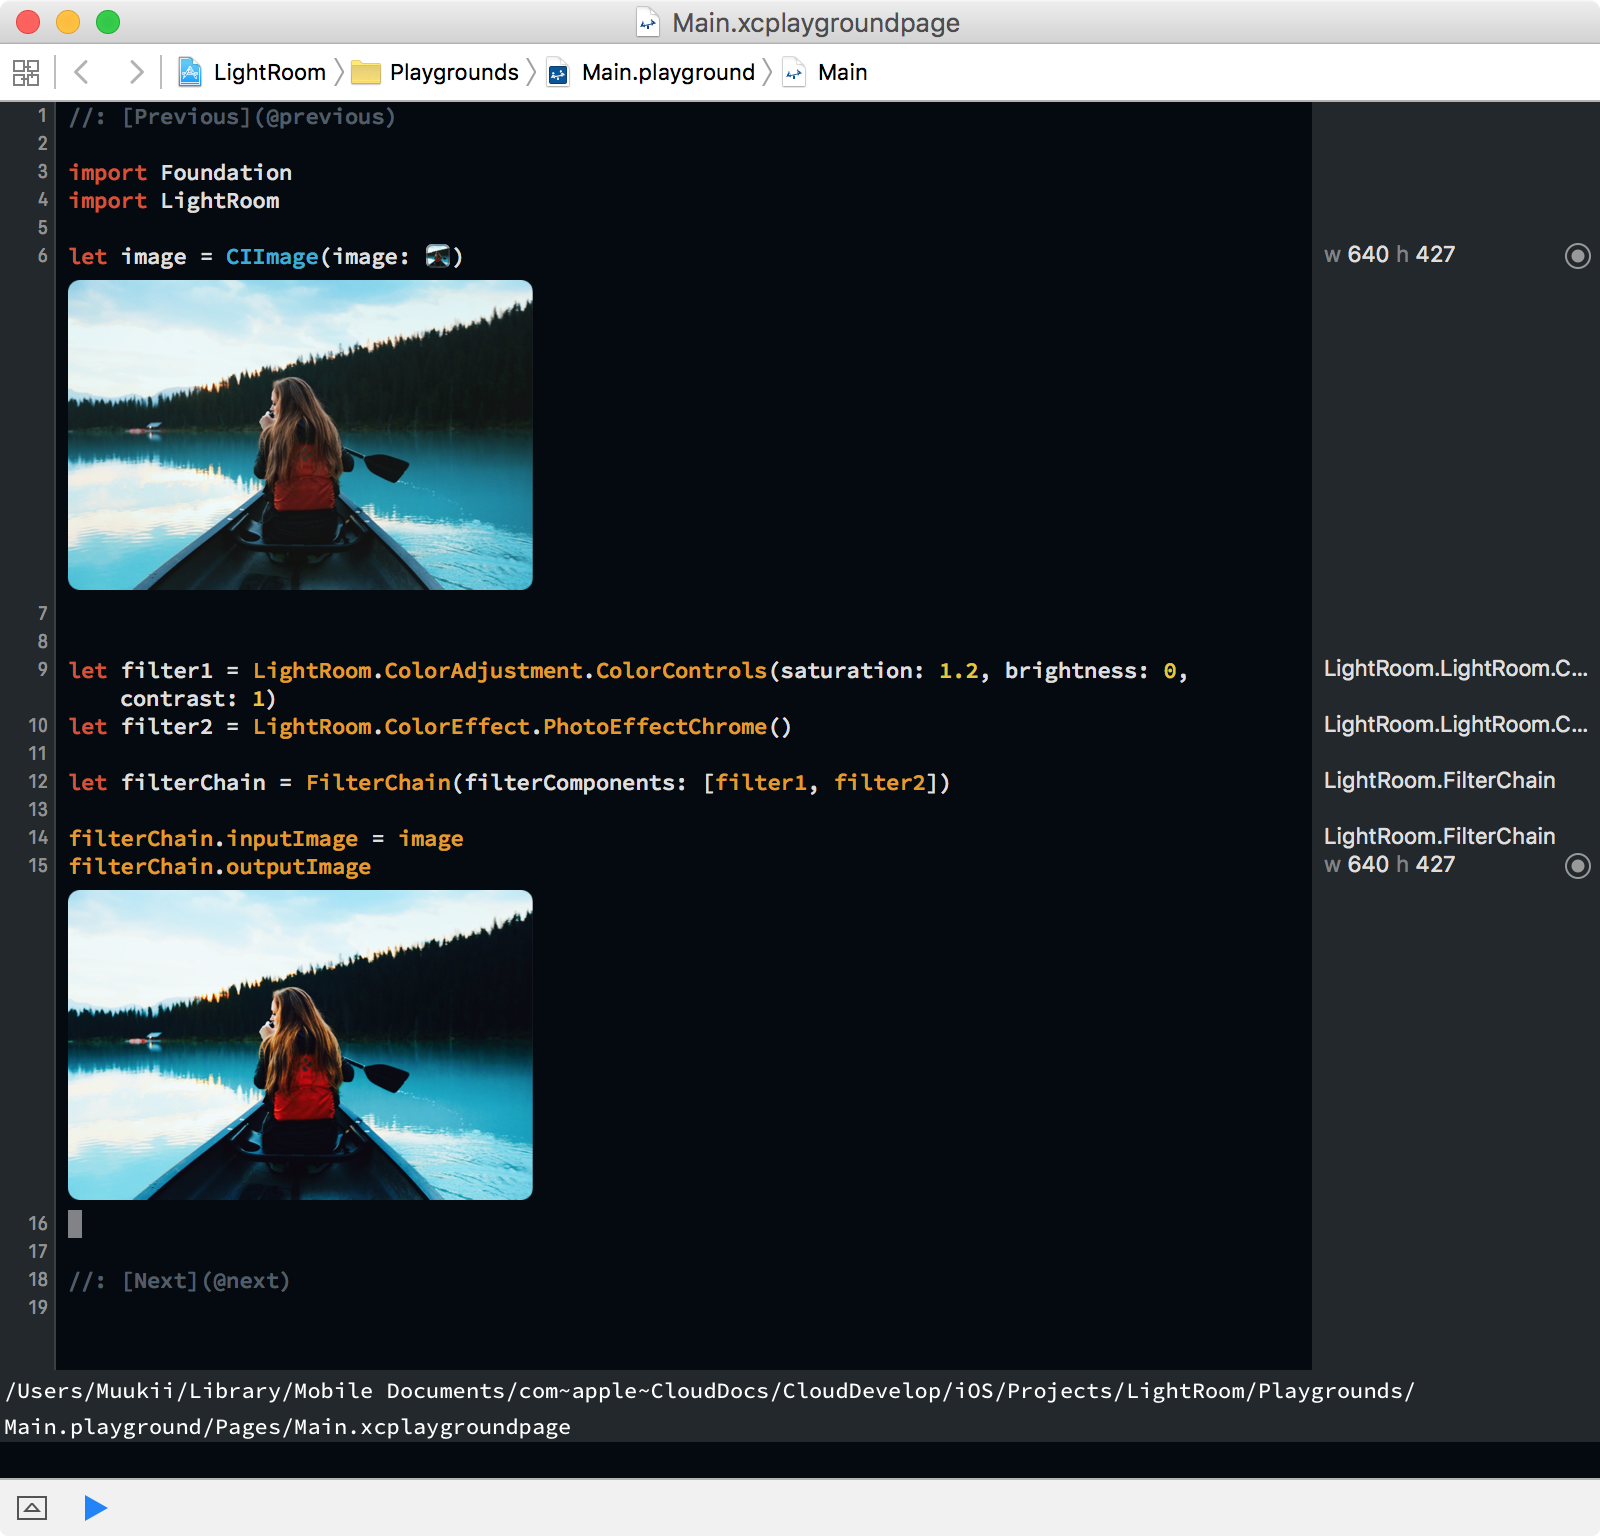
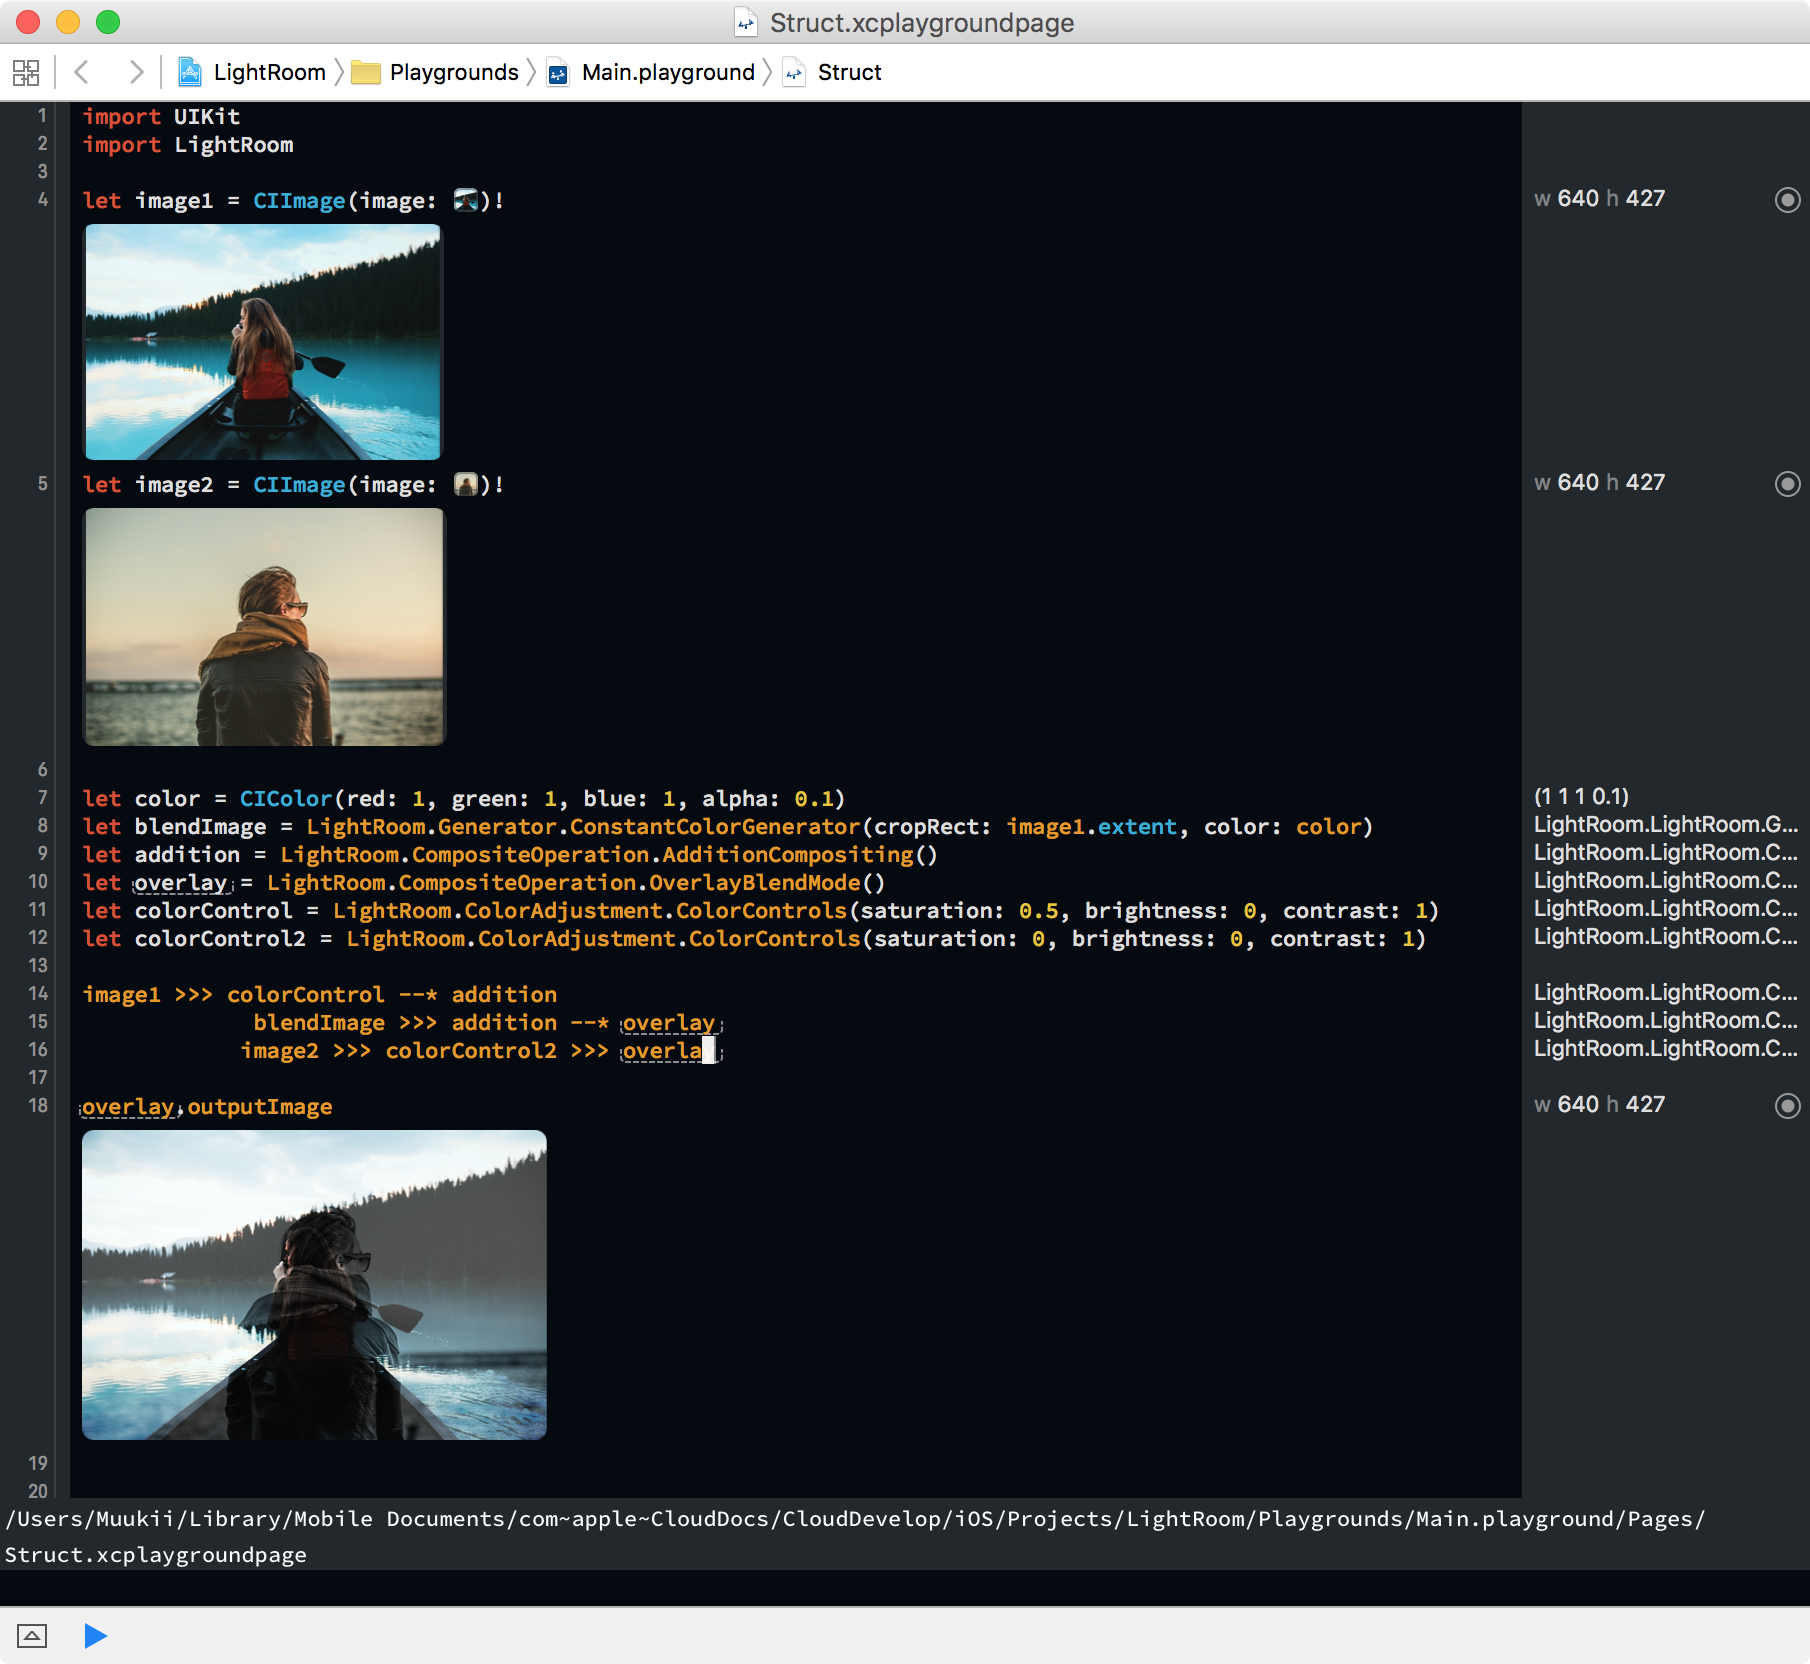
wip :D

diff --git a/Playgrounds/Main.playground/Pages/Struct.xcplaygroundpage/Contents.swift b/Playgrounds/Main.playground/Pages/Struct.xcplaygroundpage/Contents.swift
@@ -1,34 +1,19 @@
-//: [Previous](@previous)
-
-import Foundation
 import UIKit
-import CoreImage
 import LightRoom
 
-let image = CIImage(image: [#Image(imageLiteral: "sample.jpg")#])!
-let alpha: CGFloat = 0.1
+let image1 = CIImage(image: [#Image(imageLiteral: "sample.jpg")#])!
+let image2 = CIImage(image: [#Image(imageLiteral: "sample3.jpg")#])!
 
-let color = CIColor(red: 1, green: 1, blue: 1, alpha: alpha)
+let color = CIColor(red: 1, green: 1, blue: 1, alpha: 0.1)
+let blendImage = LightRoom.Generator.ConstantColorGenerator(cropRect: image1.extent, color: color)
+let addition = LightRoom.CompositeOperation.AdditionCompositing()
+let overlay = LightRoom.CompositeOperation.OverlayBlendMode()
+let colorControl = LightRoom.ColorAdjustment.ColorControls(saturation: 0.5, brightness: 0, contrast: 1)
+let colorControl2 = LightRoom.ColorAdjustment.ColorControls(saturation: 0, brightness: 0, contrast: 1)
 
-let fadeImage = LightRoom.Generator.ConstantColorGenerator(cropRect: image.extent, color: color)
-let sourceOver = LightRoom.CompositeOperation.SourceOverCompositing()
-let control = LightRoom.ColorAdjustment.ColorControls(saturation: 0.5, brightness: 0, contrast: 1)
+image1 >>> colorControl --* addition
+             blendImage >>> addition --* overlay
+            image2 >>> colorControl2 >>> overlay
 
-let chain1 = FilterChain { (image) -> CIImage? in
-    fadeImage.cropRect = image?.extent ?? .zero
-    image >>> control --* sourceOver
-    fadeImage >>> sourceOver
-    return sourceOver.outputImage
-}
+overlay.outputImage
 
-image --> chain1
-chain1.outputImage
-
-do {
-    let image2 = CIImage(image: [#Image(imageLiteral: "sample2.jpg")#])!
-    
-    image2 --> chain1
-    chain1.outputImage
-}
-
-//: [Next](@next)

diff --git a/Playgrounds/Main.playground/Pages/MultiChain.xcplaygroundpage/Contents.swift b/Playgrounds/Main.playground/Pages/MultiChain.xcplaygroundpage/Contents.swift
@@ -1,22 +1,21 @@
-//: [Previous](@previous)
-
-import Foundation
+import UIKit
 import LightRoom
 
-let image = CIImage(image: [#Image(imageLiteral: "sample.jpg")#])
+let image1 = CIImage(image: [#Image(imageLiteral: "sample.jpg")#])!
+let image2 = CIImage(image: [#Image(imageLiteral: "sample3.jpg")#])!
 
-let filter1 = LightRoom.ColorAdjustment.ColorControls(saturation: 1.2, brightness: 0, contrast: 1)
-let filter2 = LightRoom.ColorEffect.PhotoEffectChrome()
-let filterChain1 = FilterChain(filterComponents: [filter1, filter2])
+let colorControl = LightRoom.ColorAdjustment.ExposureAdjust(ev: 1)
 
-let filter3 = LightRoom.ColorAdjustment.ColorControls(saturation: 1, brightness: -0.2, contrast: 1)
-let filter4 = LightRoom.ColorEffect.PhotoEffectProcess()
-let filterChain2 = FilterChain(filterComponents: [filter3, filter4])
+let chain1 = FilterChain { (image: CIImage?) -> CIImage? in
+    image >>> colorControl
+    return colorControl.outputImage
+}
 
-let filterChain = filterChain1 ~~> filterChain2
-filterChain.inputImage = image
-filterChain.outputImage
+let colorControl2 = LightRoom.ColorAdjustment.ColorControls(saturation: 0.3, brightness: 0, contrast: 1)
+let chain2 = FilterChain { (image: CIImage?) -> CIImage? in
+    image >>> colorControl2
+    return colorControl2.outputImage
+}
 
-//: [Next](@next)
-
-
+image1 >>> chain1 >>> chain2
+chain2.outputImage

diff --git a/Playgrounds/Main.playground/Pages/OneChain.xcplaygroundpage/Contents.swift b/Playgrounds/Main.playground/Pages/OneChain.xcplaygroundpage/Contents.swift
@@ -1,18 +1,20 @@
-//: [Previous](@previous)
-
-import Foundation
+import UIKit
 import LightRoom
 
-let image = CIImage(image: [#Image(imageLiteral: "sample.jpg")#])
+let image1 = CIImage(image: [#Image(imageLiteral: "sample.jpg")#])!
+let image2 = CIImage(image: [#Image(imageLiteral: "sample3.jpg")#])!
+
+let color = CIColor(red: 1, green: 1, blue: 1, alpha: 0.1)
+let blendImage = LightRoom.Generator.ConstantColorGenerator(cropRect: image1.extent, color: color)
+let addition = LightRoom.CompositeOperation.AdditionCompositing()
+let overlay = LightRoom.CompositeOperation.OverlayBlendMode()
+let colorControl = LightRoom.ColorAdjustment.ColorControls(saturation: 0.5, brightness: 0, contrast: 1)
+let colorControl2 = LightRoom.ColorAdjustment.ColorControls(saturation: 0, brightness: 0, contrast: 1)
+
+image1 >>> colorControl --* addition
+             blendImage >>> addition --* overlay
+            image2 >>> colorControl2 >>> overlay
+
+overlay.outputImage
 
 
-let filter1 = LightRoom.ColorAdjustment.ColorControls(saturation: 1.2, brightness: 0, contrast: 1)
-let filter2 = LightRoom.ColorEffect.PhotoEffectChrome()
-
-let filterChain = FilterChain(filterComponents: [filter1, filter2])
-
-filterChain.inputImage = image
-filterChain.outputImage
-
-
-//: [Next](@next)

diff --git a/LightRoom/Classes/FilterChain.swift b/LightRoom/Classes/FilterChain.swift
@@ -21,10 +21,8 @@ infix operator >>> { associativity left }
 Set inputBackgroundImage on CompositionComponentType
 */
 infix operator --* { associativity left }
-infix operator --> { associativity left }
-infix operator <-- { associativity left }
 
-public func --> (image: CIImage?, chain: FilterChain) -> FilterChain {
+public func >>> (image: CIImage?, chain: FilterChain) -> FilterChain {
     chain.inputImage = image
     return chain
 }
@@ -63,7 +61,7 @@ public class FilterChain {
     
     public let factory: CIImage? -> CIImage?
     
-    public init(factory: CIImage? -> CIImage?) {
+    public init(_ factory: CIImage? -> CIImage?) {
         self.factory = factory
     }
     

diff --git a/LightRoom/Classes/CompositeOperation.swift b/LightRoom/Classes/CompositeOperation.swift
@@ -184,7 +184,7 @@ public extension LightRoom {
         Either multiplies or screens the input image samples with the background image samples, depending on the background color.
         */
         @available(iOS 6.0, OSX 10.4, *)
-        public final class CIOverlayBlendMode: CompositionFilterComponent {
+        public final class OverlayBlendMode: CompositionFilterComponent {
             public required init() {
                 super.init(filterName: "CIOverlayBlendMode")
             }

diff --git a/README.md b/README.md
@@ -19,9 +19,9 @@ Then create a `FilterChain` using them.
 ### Chaining
 
 ```
-let filter1 = LightRoom.ColorAdjustment.ColorControls(saturation: 1.2, brightness: 0, contrast: 1)
-let filter2 = LightRoom.ColorEffect.PhotoEffectChrome()
-let filterChain1 = FilterChain(filterComponents: [filter1, filter2])
+image1 >>> colorControl --* addition
+             blendImage >>> addition --* overlay
+            image2 >>> colorControl2 >>> overlay
 ```
 
 ![](sample1.png)
@@ -29,7 +29,7 @@ let filterChain1 = FilterChain(filterComponents: [filter1, filter2])
 
 ### Multiple Chaining
 
-You can connect `FilterChain`s with each other using `~~>`
+You can connect `FilterChain`s with each other using `>>>`
 
 ```
 let filter3 = LightRoom.ColorAdjustment.ColorControls(saturation: 1, brightness: -0.2, contrast: 1)
